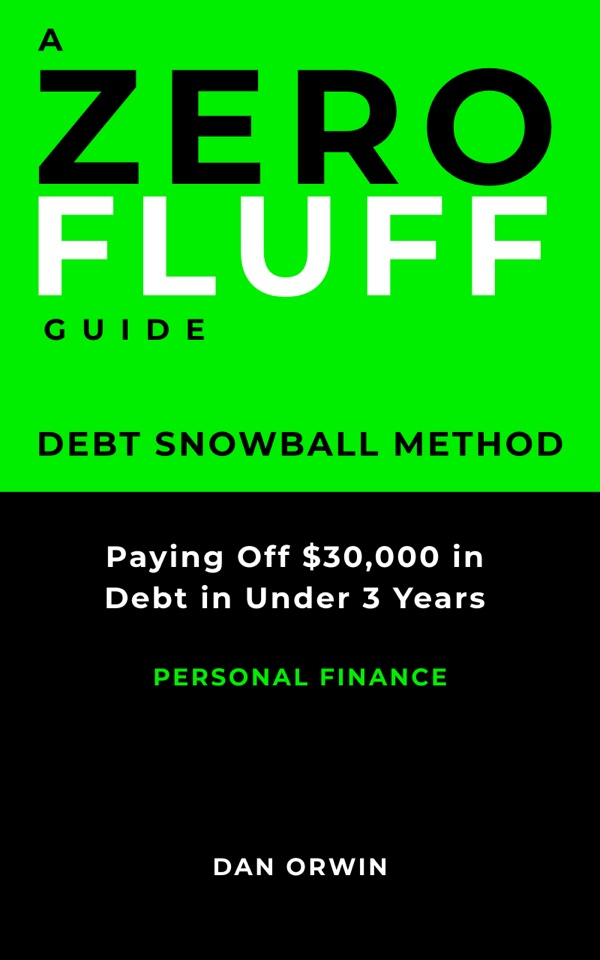
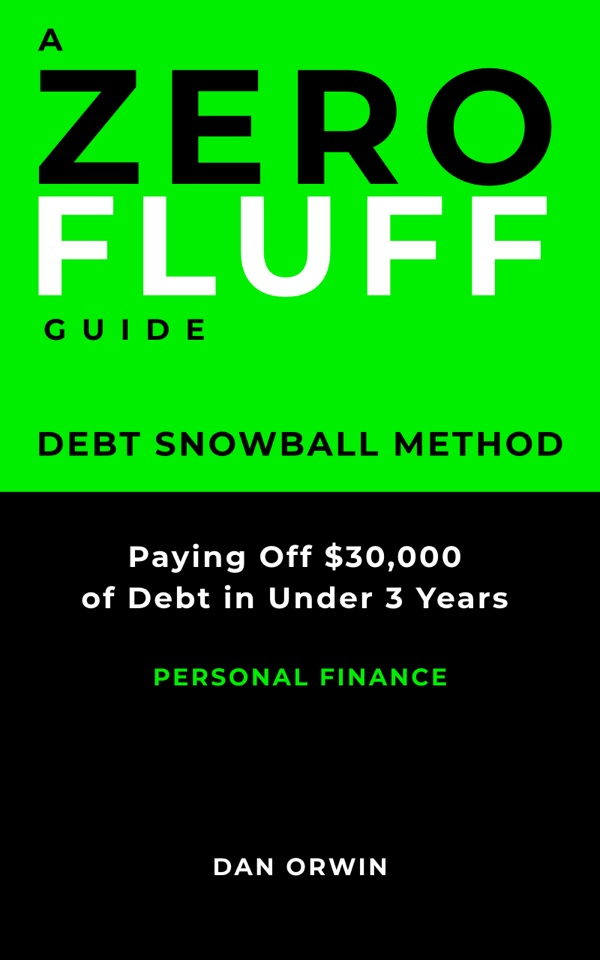
Debt Snowball: new "of Debt" cover on the site; /preview subtitle; remove /layout-test-2
- assets/covers/debt-snowball.jpg: 600x960 copy of the new 1600x2560 cover
  (sips, quality 85, same as the other site covers); ?v=6 on the homepage and /preview
- /preview: subtitle "Paying Off $30,000 of Debt in Under 3 Years"
- layout-test-2.html removed (old hidden layout test page)

Claude-Session: https://claude.ai/code/session_01FJpq96ZDp5KwfDKweCCch7

Changed region(s): [[0.15, 0.5625, 0.84, 0.6562]]

diff --git a/preview.html b/preview.html
@@ -166,7 +166,7 @@
       <div class="book-main">
       <div class="book-cover-wrap">
         <div class="niche-tab finance debt-snowball"></div>
-        <img class="book-cover" src="/assets/covers/debt-snowball.jpg?v=5" width="600" height="960" alt="Debt Snowball Method by Dan Orwin cover">
+        <img class="book-cover" src="/assets/covers/debt-snowball.jpg?v=6" width="600" height="960" alt="Debt Snowball Method by Dan Orwin cover">
       </div>
       <div class="book-body">
         <div class="book-meta">
@@ -174,7 +174,7 @@
           <span class="pen-name">Dan Orwin</span>
         </div>
         <div class="book-title">Debt Snowball Method</div>
-        <div class="book-sub">Paying Off $30,000 in Debt in Under 3 Years</div>
+        <div class="book-sub">Paying Off $30,000 of Debt in Under 3 Years</div>
         <div class="book-hook">If you owe around $30,000 and pay the minimums, the balances barely move. This 60-page plan gives you a ranked payoff order, a budget that finds extra cash, and a month-by-month payment schedule, and you can read it in one evening. A free worksheet calculates your debt-free date and payoff order, and saves only on your own device.</div>
         <div class="book-actions">
           <span class="book-soon">Coming soon</span>

diff --git a/index.html b/index.html
@@ -186,7 +186,7 @@
       <div class="book-main">
       <div class="book-cover-wrap">
         <div class="niche-tab finance debt-snowball"></div>
-        <img class="book-cover" src="/assets/covers/debt-snowball.jpg?v=5" width="600" height="960" alt="Debt Snowball Method by Dan Orwin cover">
+        <img class="book-cover" src="/assets/covers/debt-snowball.jpg?v=6" width="600" height="960" alt="Debt Snowball Method by Dan Orwin cover">
       </div>
       <div class="book-body">
         <div class="book-meta">
